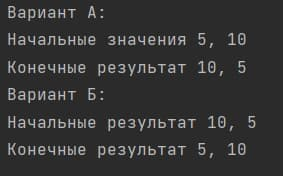
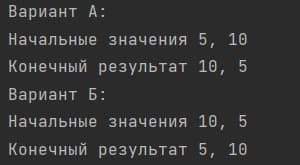
Refactored

diff --git a/src/test/kotlin/Tests/Part1.kt b/src/test/kotlin/Tests/Part1.kt
@@ -7,6 +7,7 @@ class Part1 {
 
     @Test
     fun task1() {
+        println("Числа отразка от 1 до 99 кратные 3:")
         for (i in 1..99) {
             if (i % 3 == 0) println(i)
         }
@@ -16,7 +17,7 @@ class Part1 {
     @Test
     fun task2() {
         val k = (1..10).random()
-        println("Значение k равно $k")
+        println("Значение k равно $k \nЧисла кратные числу k:")
         for (i in 10..99) {
             if (i % k == 0) println(i)
         }
@@ -33,7 +34,7 @@ class Part1 {
         var out = res
         var len = 0
 
-        while (out !== 0) {
+        while (out != 0) {
             len++
             out /= 10
         }
@@ -51,23 +52,11 @@ class Part1 {
         var max: Int
         var min: Int
 
-        if (a > b) {
-            max = a; min = b
-        } else {
-            max = b; min = a
-        }
+        if (a > b) {max = a; min = b} else {max = b; min = a}
 
-        if (c > max) {
-            max = c
-        } else if (min > c) {
-            min = c
-        }
+        if (c > max) {max = c} else if (min > c) {min = c}
 
-        if (d > max) {
-            max = d
-        } else if (min > d) {
-            min = d
-        }
+        if (d > max) {max = d} else if (min > d) {min = d}
 
         println("Даны 4 числа: $a, $b, $c, $d.\nМаксимальное число $max.\nМинимальное число $min.")
     }
@@ -77,26 +66,26 @@ class Part1 {
     fun task5() {
         var a = 5
         var b = 10
-        var c = a
+        val c = a
 
         println("Вариант А: \nНачальные значения $a, $b")
         a = b
         b = c
-        println("Конечные результат $a, $b")
+        println("Конечный результат $a, $b")
 
-        println("Вариант Б: \nНачальные результат $a, $b")
+        println("Вариант Б: \nНачальные значения $a, $b")
         a = a + b
         b = a - b
         a = a - b
-        println("Конечные результат $a, $b")
+        println("Конечный результат $a, $b")
     }
 
 
     @Test
     fun Task6() {
-        var k = (1..27).random()
+        val k = (1..27).random()
 
-        println("Значение k равно $k \nРезультат:")
+        println("Значение k равно $k \nCумма цифр которые равны числу k :")
 
         for (i in 100..999) {
             var n = i
@@ -120,7 +109,7 @@ class Part1 {
     @Test
     fun task7() {
         val k = (5..10).random()
-        println("Последовательность Фиббоначи из $k чисел")
+        println("Последовательность Фиббоначи из $k чисел:")
         for (i in 0 until k) println(fibonachiMethod(i))
 
     }
@@ -133,7 +122,7 @@ class Part1 {
     @Test
     fun task8() {
         val N = (100..1000).random()
-        println("Сумма цифр натурального числа $N")
+        println("Сумма цифр натурального числа $N:")
         println(sumDigit(N))
     }
 
